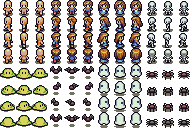
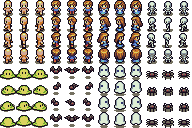
Happy slimes

Changed region(s): [[0.1562, 0.5312, 0.25, 0.625], [0.0, 0.5312, 0.0938, 0.625]]

diff --git a/src/helpers/animations.js b/src/helpers/animations.js
@@ -32,7 +32,7 @@ export default function makeAnimations(scene) {
                 frames: scene.anims.generateFrameNames('characters', {
                     frames: [0, 1, 2, 1].map(x => x + (index + CHARACTERS_STRIDE_Y * 1) * CHARACTERS_STRIDE)
                 }),
-                frameRate: 10,
+                frameRate: 5,
                 repeat: -1,
                 repeatDelay: 0
             };

diff --git a/src/sprites/slime.js b/src/sprites/slime.js
@@ -4,7 +4,7 @@ export default class Slime extends Enemy {
     constructor(config) {
         super(config);
         this.body.setVelocity(0, 0).setBounce(0, 0).setCollideWorldBounds(false);
-        this.anims.play('slime/standdown');
+        this.anims.play('slime/rundown');
         this.killAt = 0;
     }
 
